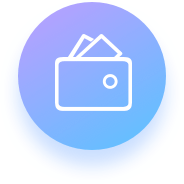
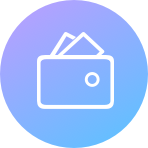
优化 系统特色功能 交互效果

diff --git a/statics/css/product_index.css b/statics/css/product_index.css
@@ -136,7 +136,23 @@
   color: #444444;
 }
 .setting-item:hover .img-select-1{
+  opacity: 0.3;
+}
+.setting-item:hover .img-select-2{
+  opacity: 1;
+}
+.setting-item .img-select-2{
+  width: 148px;
+  height: 148px;
+  top: 2px;
+  left: 18px;
   opacity: 0;
+}
+.setting-item .img-select-1{
+  width: 184px;
+  height: 184px;
+  top: 0;
+  left: 0;
 }
 .setting-item:hover .setting-text{
   color: #8289F1;
@@ -145,13 +161,11 @@
   width: 184px;
   height: 184px;
   position: relative;
+  /* outline: 1px solid red; */
 }
 .setting-item-warp img{
-  width: 184px;
-  height: 184px;
+  transition: all .7s;
   position: absolute;
-  bottom: 0;
-  left: 0;
 }
 .setting-item-warp .img-select-1{
   z-index: 1;
